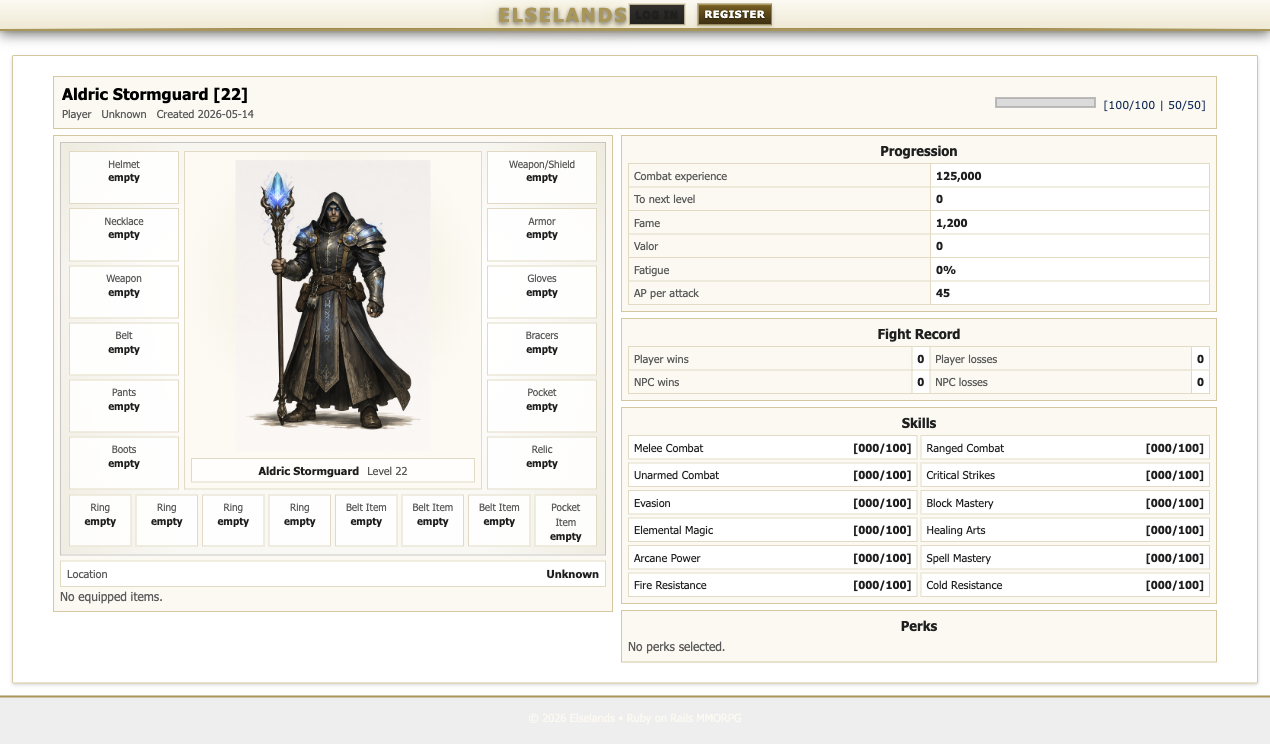
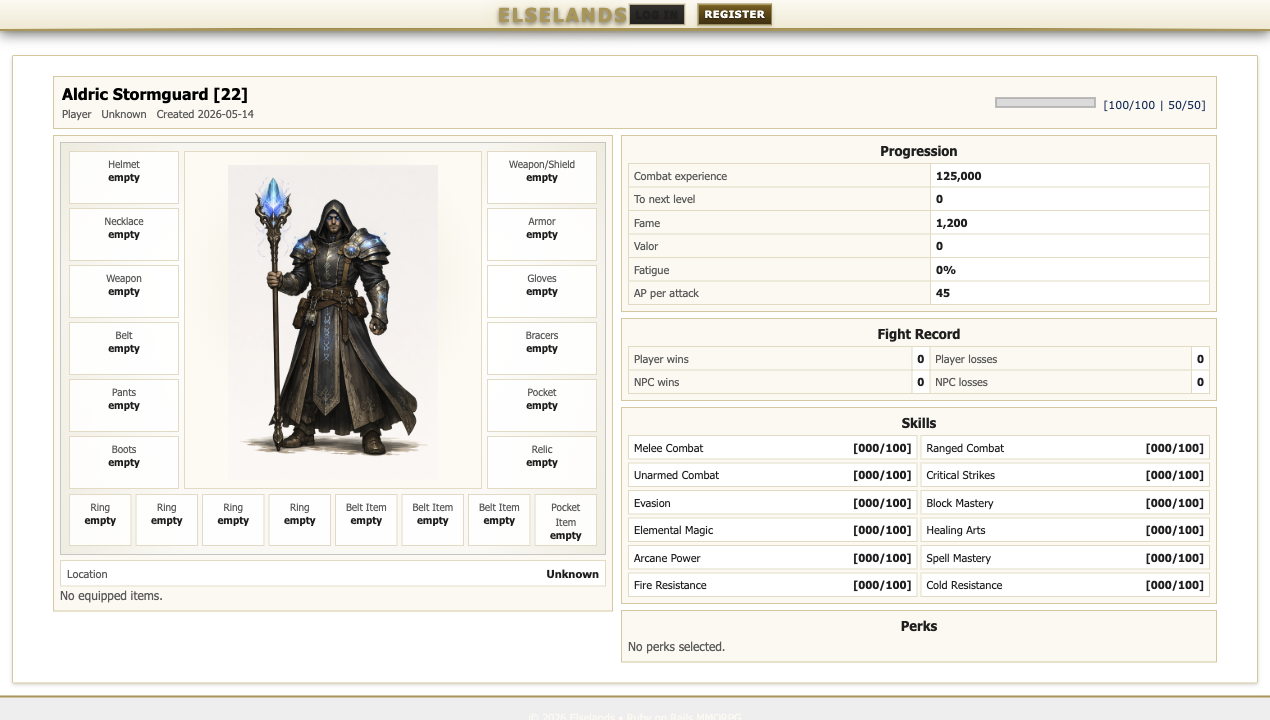
fix

diff --git a/app/assets/stylesheets/application.css b/app/assets/stylesheets/application.css
@@ -12346,10 +12346,9 @@ turbo-frame[busy] {
   display: flex;
   min-height: 330px;
   align-items: center;
-  justify-content: flex-end;
+  justify-content: center;
   flex-direction: column;
-  gap: 6px;
-  padding: 8px 6px 6px;
+  padding: 8px 6px;
   border: 1px solid var(--nl-border-light);
   background:
     radial-gradient(circle at center 38%, rgba(204, 187, 128, 0.22), rgba(255, 255, 255, 0) 58%),
@@ -12359,29 +12358,9 @@ turbo-frame[busy] {
 .nl-equipment-character-image {
   display: block;
   width: min(100%, 210px);
-  height: 292px;
+  height: 320px;
   object-fit: contain;
   object-position: center bottom;
-}
-
-.nl-equipment-avatar-caption {
-  display: flex;
-  align-items: center;
-  justify-content: center;
-  gap: 8px;
-  width: 100%;
-  padding: 3px 5px;
-  border: 1px solid var(--nl-border-light);
-  background: rgba(255, 255, 255, 0.86);
-  font-size: 11px;
-}
-
-.nl-equipment-avatar-caption strong {
-  color: var(--nl-text);
-}
-
-.nl-equipment-avatar-caption span {
-  color: var(--nl-text-muted);
 }
 
 .nl-equipment-lower-slots {

diff --git a/app/models/equipment_slots.rb b/app/models/equipment_slots.rb
@@ -1,0 +1,36 @@
+# frozen_string_literal: true
+
+module EquipmentSlots
+  LEFT = [
+    ["head", "Helmet"],
+    ["amulet", "Necklace"],
+    ["main_hand", "Weapon"],
+    ["belt", "Belt"],
+    ["legs", "Pants"],
+    ["feet", "Boots"]
+  ].freeze
+
+  RIGHT = [
+    ["off_hand", "Weapon/Shield"],
+    ["chest", "Armor"],
+    ["hands", "Gloves"],
+    ["bracers", "Bracers"],
+    ["pocket", "Pocket"],
+    ["relic", "Relic"]
+  ].freeze
+
+  LOWER = [
+    ["ring_1", "Ring"],
+    ["ring_2", "Ring"],
+    ["ring_3", "Ring"],
+    ["ring_4", "Ring"],
+    ["belt_1", "Belt Item"],
+    ["belt_2", "Belt Item"],
+    ["belt_3", "Belt Item"],
+    ["pocket_1", "Pocket Item"]
+  ].freeze
+
+  ORDERED = (LEFT + RIGHT + LOWER).freeze
+  KEYS = ORDERED.map(&:first).freeze
+  LABELS = ORDERED.to_h.freeze
+end

diff --git a/app/models/item_template.rb b/app/models/item_template.rb
@@ -19,10 +19,7 @@
 #
 class ItemTemplate < ApplicationRecord
   ITEM_TYPES = %w[equipment material resource consumable quest misc].freeze
-  EQUIPMENT_SLOTS = %w[
-    head amulet main_hand belt belt_1 belt_2 belt_3 feet pocket pocket_1
-    bracers hands off_hand ring_1 ring_2 ring_3 ring_4 chest legs relic
-  ].freeze
+  EQUIPMENT_SLOTS = EquipmentSlots::KEYS
   RARITIES = %w[common uncommon rare epic legendary].freeze
 
   validates :name, presence: true, uniqueness: true

diff --git a/app/controllers/inventories_controller.rb b/app/controllers/inventories_controller.rb
@@ -202,7 +202,7 @@ class InventoriesController < ApplicationController
   end
 
   def current_character_equipment
-    PlayerProfileHelper::PROFILE_EQUIPMENT_SLOTS.to_h do |slot_key, _label|
+    EquipmentSlots::ORDERED.to_h do |slot_key, _label|
       [slot_key.to_sym, equipped_item(slot_key)]
     end
   end

diff --git a/spec/system/inventory_progression_spec.rb b/spec/system/inventory_progression_spec.rb
@@ -57,7 +57,6 @@ RSpec.describe "Inventory & Progression UI", type: :system, js: true do
 
       expect(page).to have_css("#flash", text: "Skills allocated!")
     end
-
   end
 
   describe "failure cases" do